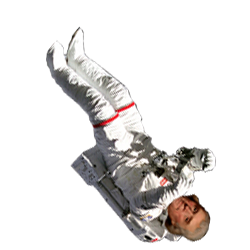
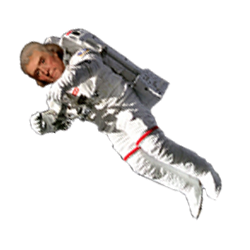
update

diff --git a/js/main.js b/js/main.js
@@ -17,19 +17,19 @@ var loop = setInterval(function(){
 }, 30);
 
 //spin the bozo
-var img = $('.jefferson-image');
-if(img.length > 0){
-    var offset = img.offset();
-    function mouse(evt){
-        var center_x = (offset.left) + (img.width()/2);
-        var center_y = (offset.top) + (img.height()/2);
-        var mouse_x = evt.pageX; var mouse_y = evt.pageY;
-        var radians = Math.atan2(mouse_x - center_x, mouse_y - center_y);
-        var degree = (radians * (180 / Math.PI) * -1) + 90; 
-        img.css('-moz-transform', 'rotate('+degree+'deg)');
-        img.css('-webkit-transform', 'rotate('+degree+'deg)');
-        img.css('-o-transform', 'rotate('+degree+'deg)');
-        img.css('-ms-transform', 'rotate('+degree+'deg)');
-    }
-    $(document).mousemove(mouse);
-}
+// var img = $('.jefferson-image');
+// if(img.length > 0){
+//     var offset = img.offset();
+//     function mouse(evt){
+//         var center_x = (offset.left) + (img.width()/2);
+//         var center_y = (offset.top) + (img.height()/2);
+//         var mouse_x = evt.pageX; var mouse_y = evt.pageY;
+//         var radians = Math.atan2(mouse_x - center_x, mouse_y - center_y);
+//         var degree = (radians * (180 / Math.PI) * -1) + 90; 
+//         img.css('-moz-transform', 'rotate('+degree+'deg)');
+//         img.css('-webkit-transform', 'rotate('+degree+'deg)');
+//         img.css('-o-transform', 'rotate('+degree+'deg)');
+//         img.css('-ms-transform', 'rotate('+degree+'deg)');
+//     }
+//     $(document).mousemove(mouse);
+// }

diff --git a/index.php b/index.php
@@ -78,7 +78,6 @@
             $(document).ready(getMousePosition);
             //Spoof resize
             $(window).resize();
-            $('body').click();
         </script>
 
     </body>
